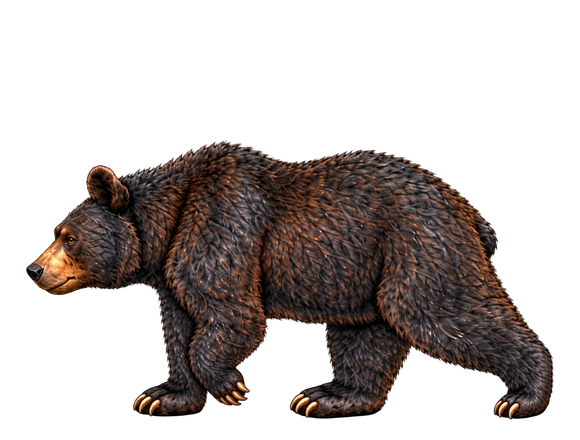
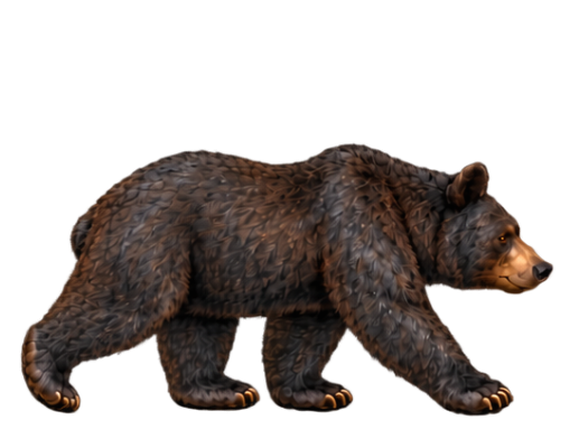
Add files via upload

diff --git a/game.js b/game.js
@@ -1350,7 +1350,7 @@
     return -1;
   }
   const BEAR_REFERENCE_POINTS=Object.freeze([[1459, 640], [1427, 661], [1394, 676], [1364, 681], [1335, 678], [1307, 669], [1275, 655], [1252, 641], [1240, 623], [1236, 601], [1239, 576], [1247, 551], [1260, 530], [1277, 512], [1291, 501], [1295, 493], [1285, 484], [1265, 476], [1240, 470], [1211, 467], [1188, 470], [1164, 477], [1146, 484], [1134, 494], [1126, 512], [1117, 530], [1102, 546], [1082, 561], [1061, 571], [1043, 576], [1025, 576], [1003, 570], [984, 563], [963, 562], [940, 565], [916, 568], [893, 574], [877, 580], [867, 590], [863, 600], [869, 619], [880, 636], [891, 647], [906, 654], [925, 658], [937, 666], [946, 679], [959, 691], [979, 706], [1002, 720], [1025, 734], [1042, 739], [1070, 739], [1107, 735], [1144, 733], [1190, 731], [1234, 731], [1270, 732], [1306, 737], [1343, 742], [1378, 746], [1414, 744], [1459, 735]]);
-  const BEAR_SPRITES=Object.freeze({"up-1": {"file": "assets/animals/bear/up-1.webp", "width": 580, "height": 440, "anchorX": 290, "anchorY": 420, "scale": 1.3}, "up-2": {"file": "assets/animals/bear/up-2.webp", "width": 580, "height": 440, "anchorX": 290, "anchorY": 420, "scale": 1.3}, "side-1": {"file": "assets/animals/bear/side-1.webp", "width": 580, "height": 440, "anchorX": 290, "anchorY": 420, "scale": 1.3}, "side-2": {"file": "assets/animals/bear/side-2.webp", "width": 580, "height": 440, "anchorX": 290, "anchorY": 420, "scale": 1.3}, "down-1": {"file": "assets/animals/bear/down-1.webp", "width": 580, "height": 440, "anchorX": 290, "anchorY": 420, "scale": 1.3}, "down-2": {"file": "assets/animals/bear/down-2.webp", "width": 580, "height": 440, "anchorX": 290, "anchorY": 420, "scale": 1.3}, "side-3": {"file": "assets/animals/bear/side-3.webp", "width": 580, "height": 440, "anchorX": 290, "anchorY": 420, "scale": 1.3}, "side-4": {"file": "assets/animals/bear/side-4.webp", "width": 580, "height": 440, "anchorX": 290, "anchorY": 420, "scale": 1.3}, "rest-up": {"file": "assets/animals/bear/rest-up.webp", "width": 580, "height": 440, "anchorX": 290, "anchorY": 420, "scale": 1.3}, "rest-side": {"file": "assets/animals/bear/rest-side.webp", "width": 580, "height": 440, "anchorX": 290, "anchorY": 420, "scale": 1.3}, "rest-down": {"file": "assets/animals/bear/rest-down.webp", "width": 580, "height": 440, "anchorX": 290, "anchorY": 420, "scale": 1.3}});
+  const BEAR_SPRITES=Object.freeze({"up-1": {"file": "assets/animals/bear/up-1.webp", "width": 580, "height": 440, "anchorX": 290, "anchorY": 420, "scale": 1.3}, "up-2": {"file": "assets/animals/bear/up-2.webp", "width": 580, "height": 440, "anchorX": 290, "anchorY": 420, "scale": 1.3}, "side-1": {"file": "assets/animals/bear/side-1.webp?v=65", "width": 580, "height": 440, "anchorX": 290, "anchorY": 420, "scale": 1.3}, "side-2": {"file": "assets/animals/bear/side-2.webp?v=65", "width": 580, "height": 440, "anchorX": 290, "anchorY": 420, "scale": 1.3}, "down-1": {"file": "assets/animals/bear/down-1.webp", "width": 580, "height": 440, "anchorX": 290, "anchorY": 420, "scale": 1.3}, "down-2": {"file": "assets/animals/bear/down-2.webp", "width": 580, "height": 440, "anchorX": 290, "anchorY": 420, "scale": 1.3}, "side-3": {"file": "assets/animals/bear/side-3.webp?v=65", "width": 580, "height": 440, "anchorX": 290, "anchorY": 420, "scale": 1.3}, "side-4": {"file": "assets/animals/bear/side-4.webp?v=65", "width": 580, "height": 440, "anchorX": 290, "anchorY": 420, "scale": 1.3}, "rest-up": {"file": "assets/animals/bear/rest-up.webp", "width": 580, "height": 440, "anchorX": 290, "anchorY": 420, "scale": 1.3}, "rest-side": {"file": "assets/animals/bear/rest-side.webp", "width": 580, "height": 440, "anchorX": 290, "anchorY": 420, "scale": 1.3}, "rest-down": {"file": "assets/animals/bear/rest-down.webp", "width": 580, "height": 440, "anchorX": 290, "anchorY": 420, "scale": 1.3}});
   const BEAR_RULES=Object.freeze({count:4,speed:95,frameSeconds:.28,restMin:1.2,restMax:36,edgeHideX:10430,walkSize:1.05,restSize:1.2});
   const BEAR_ZONE=Object.freeze(BEAR_REFERENCE_POINTS.map(([x,y])=>[x/1459*10000,y/973*(10000*1365/2048)]));
   const BEAR_WALK=Object.freeze({up:Object.freeze(['up-1','up-2']),down:Object.freeze(['down-1','down-2']),left:Object.freeze(['side-1','side-2','side-3','side-4']),right:Object.freeze(['side-1','side-2','side-3','side-4'])});
@@ -1438,7 +1438,7 @@
     if(b.mode==='away')return null;
     const side=b.direction==='left'||b.direction==='right';
     const key=b.mode==='walk'?BEAR_WALK[b.direction][Math.min(BEAR_WALK[b.direction].length*b.walk.cycles-1,Math.floor((b.walk.elapsed+1e-8)/BEAR_RULES.frameSeconds))%BEAR_WALK[b.direction].length]:side?'rest-side':b.direction==='up'?'rest-up':'rest-down';
-    return {key,mirror:side&&b.direction==='right'};
+    return {key,mirror:side&&(b.mode==='walk'?b.direction==='left':b.direction==='right')};
   }
   function stepBear(b,dt,rng=Math.random,herd=[]){
     if(b.mode==='away'){
